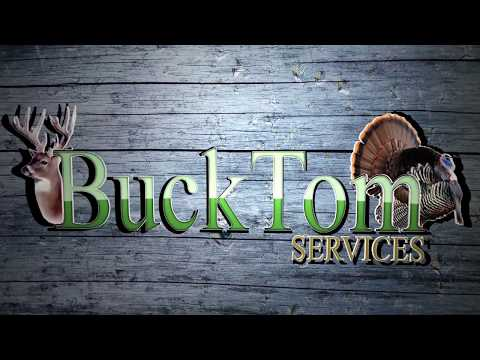
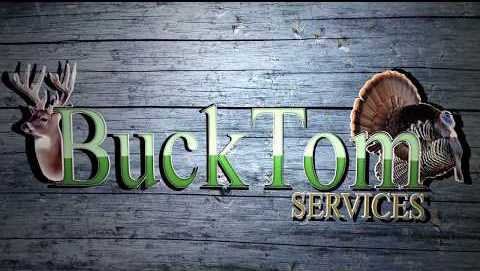
cropped the poster

diff --git a/src/lib/Poster.svelte b/src/lib/Poster.svelte
@@ -5,7 +5,7 @@
 
 <div>
   <img
-    src="https://img.youtube.com/vi/Ub_XSLg-eO8/0.jpg"
+    src="video.jpg"
     alt="Bucktom Video Poster"
     on:click
     out:fade={{ delay: 0, duration: 300, easing: sineInOut }}
